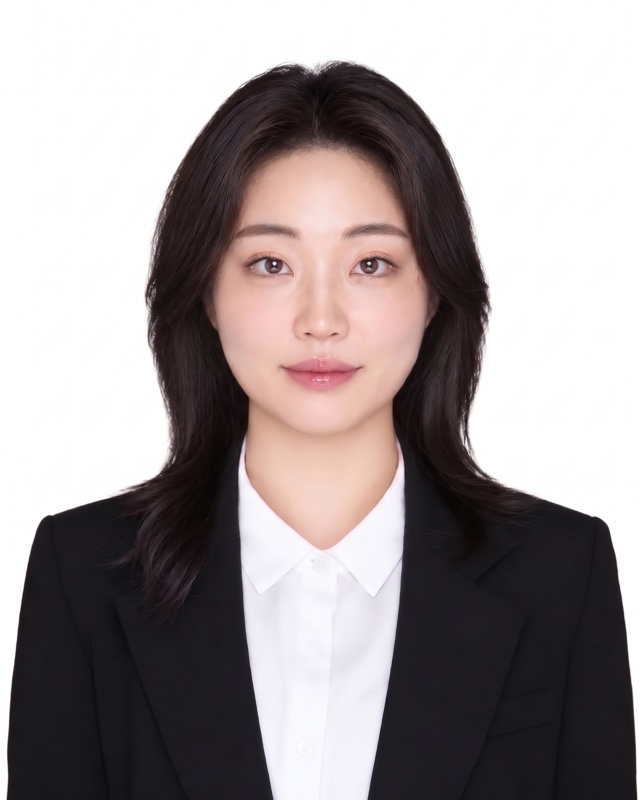
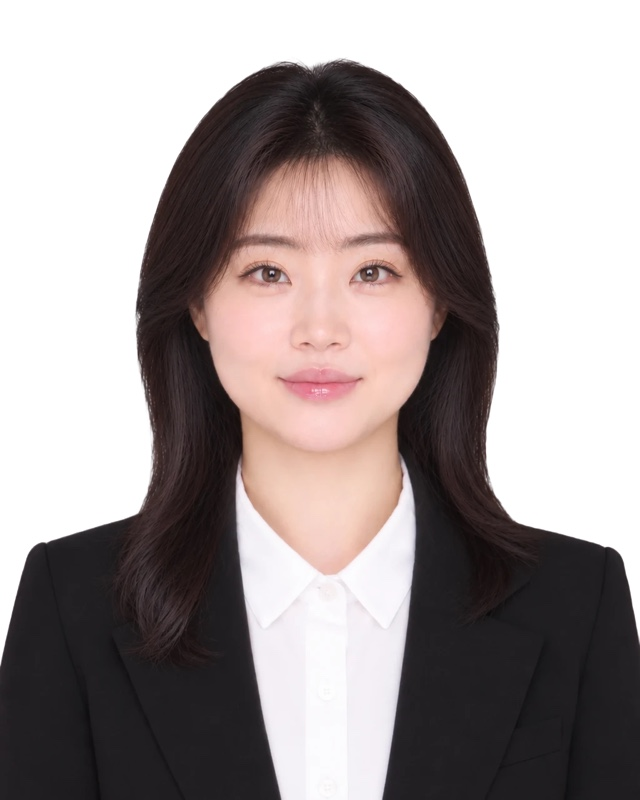
백나경 선생님 사진 교체(흰 배경)

diff --git a/index.html b/index.html
@@ -677,7 +677,7 @@ const T=[
 ];
 const list=document.getElementById('tlist');
 /* 사진: img/teachers/이름.jpg 를 PHOTO 에 적으면 사진, 없으면 성 한 글자 */
-const PHOTO={};['조일환','류성훈','이태형','장의순','김호랑','백나경','고연승','신연우','권현석','정민','홍진수','최정윤','이예섭','정지만','김현중','임현철','이창환','최현재','김경한','문지현','박정은','박남진','최한근','안민형','강윤구','박성하'].forEach(n=>PHOTO[n]='img/teachers/'+n+'.jpg?v=1128b');
+const PHOTO={};['조일환','류성훈','이태형','장의순','김호랑','백나경','고연승','신연우','권현석','정민','홍진수','최정윤','이예섭','정지만','김현중','임현철','이창환','최현재','김경한','문지현','박정은','박남진','최한근','안민형','강윤구','박성하'].forEach(n=>PHOTO[n]='img/teachers/'+n+'.jpg?v=1128c');
 /* 줄 순서: 1줄 국어 · 2줄 수학 · 3줄 영어 · 4줄 탐구 · 논술 (11/19 사장님 요청)
    같은 과목 안에서는 (탐구는 통합과학·통합사회·사탐 순으로 묶고) 사진 있는 강사 먼저, 나머지는 배열 순서 그대로 */
 const SUBJ=['국어','수학','영어','탐구','논술'];
